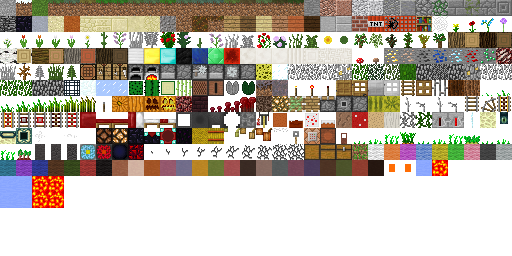
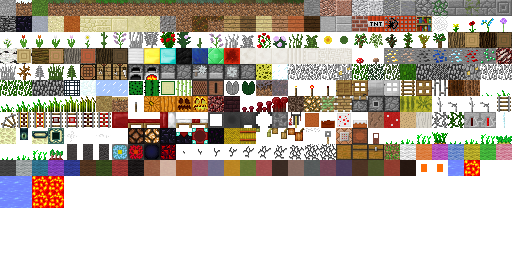
Add 0.11.1 textures

Changed region(s): [[0.0, 0.375, 1.0, 0.8125]]

diff --git a/index.html b/index.html
@@ -2,7 +2,7 @@
 <html>
 <head>
 <meta http-equiv="Content-Type" content="text/html; charset=utf-8"/>
-<title>Texture names in Minecraft PE 0.8.0</title>
+<title>Texture names in Minecraft PE 0.11.1</title>
 <style>
 /* http://stackoverflow.com/questions/3900436/image-scaling-by-css-is-there-a-webkit-alternative-for-moz-crisp-edges */
 .pixelated {
@@ -24,7 +24,7 @@ body {
 </style>
 </head>
 <body>
-<h1>Texture names in Minecraft PE 0.9.2</h1>
+<h1>Texture names in Minecraft PE 0.11.1</h1>
 <script type="text/javascript" src="main.js">
 </script>
 </body>
